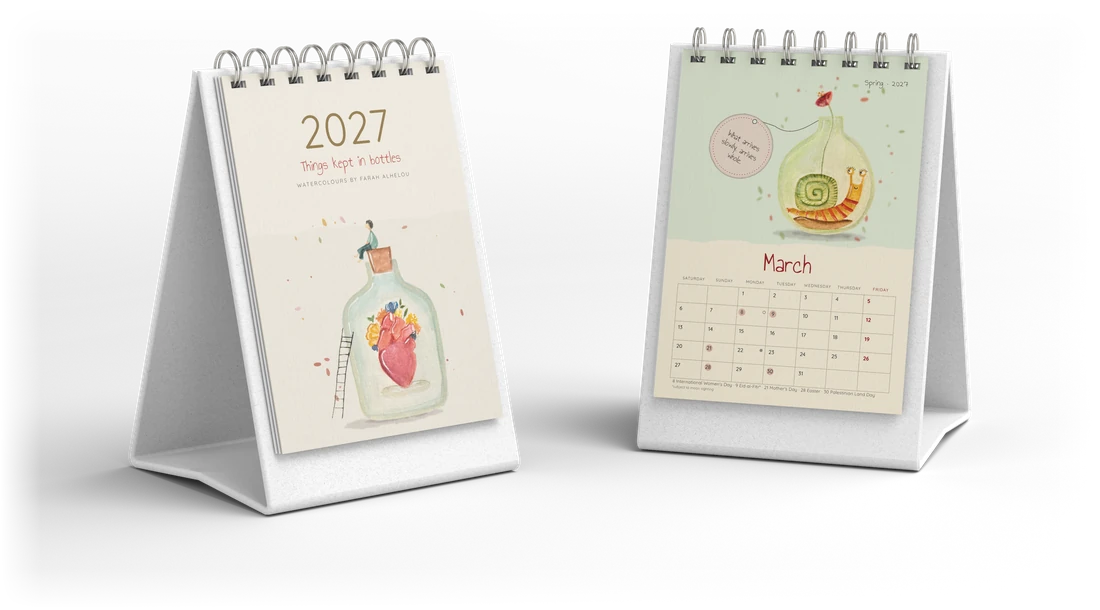
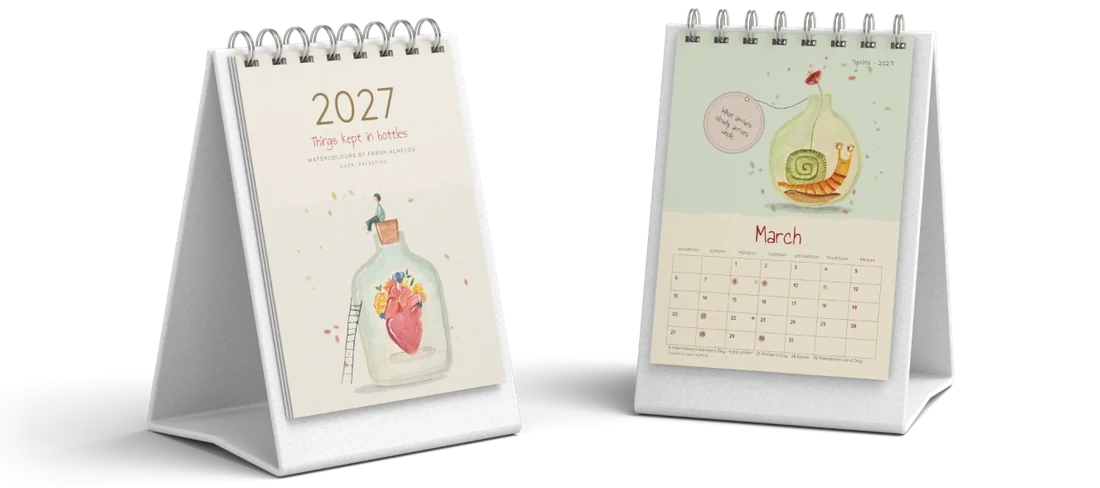
Calendar page: the owner's pair render opens the page again; the page is white
Claude-Session: https://claude.ai/code/session_011WuUMkvb8t9MEEabS5wD9n

Changed region(s): [[0.0, 0.0, 0.8964, 0.9836], [0.2782, 0.1844, 0.3709, 0.3381], [0.68, 0.5533, 0.7109, 0.584]]

diff --git a/web/calendar.html b/web/calendar.html
@@ -19,10 +19,10 @@
 <link rel="preload" href="fonts/geist-mono-latin-500-normal.woff2" as="font" type="font/woff2" crossorigin>
 <link rel="stylesheet" href="fonts/all.css">
 <link rel="stylesheet" href="fonts/figtree.css">
-<link rel="stylesheet" href="assets/css/site.css?v=226dd709">
-<link rel="stylesheet" href="assets/css/hand.css?v=226dd709">
-<link rel="stylesheet" href="assets/css/calendar.css?v=226dd709">
-<script src="assets/js/boot.js?v=226dd709"></script>
+<link rel="stylesheet" href="assets/css/site.css?v=b6108202">
+<link rel="stylesheet" href="assets/css/hand.css?v=b6108202">
+<link rel="stylesheet" href="assets/css/calendar.css?v=b6108202">
+<script src="assets/js/boot.js?v=b6108202"></script>
 </head>
 <body>
 <a class="skip" href="#main" data-ar="انتقلوا إلى المحتوى">Skip to content</a>
@@ -64,7 +64,7 @@
 <main id="main">
 <section class="hshow cdesk" id="top" aria-labelledby="cf-h">
   <h1 class="sr" id="cf-h" data-ar="تقويم 2027: أشياء نحفظها في قوارير">The 2027 calendar: things kept in bottles</h1>
-  <img src="assets/cal-hero.webp" srcset="assets/cal-hero-m.webp 1100w, assets/cal-hero.webp 2400w" sizes="100vw" width="2400" height="1333" alt="Two 2027 desk calendars standing side by side, open on the cover and on March" data-alt-ar="تقويمان مكتبيان لعام 2027 جنبًا إلى جنب، مفتوحان على الغلاف وعلى آذار" fetchpriority="high">
+  <img src="assets/cal-hero.webp" srcset="assets/cal-hero-m.webp 1100w, assets/cal-hero.webp 1326w" sizes="100vw" width="1326" height="589" alt="Two 2027 desk calendars standing side by side, open on the cover and on March" data-alt-ar="تقويمان مكتبيان لعام 2027 جنبًا إلى جنب، مفتوحان على الغلاف وعلى آذار" fetchpriority="high">
   <div class="cdesk-t">
     <p class="cdesk-l" data-ar="قارورة لكل شهر، على مكتبكم طوال العام">A bottle for every month, on your desk all year</p>
     <div class="cbuy-row">
@@ -147,10 +147,10 @@
   <div class="ft-z"><small data-ar="© 2026 ماس آند غراس، غزة، فلسطين">© 2026 Mass &amp; Grass, Gaza, Palestine</small><div class="soc" id="soc"></div></div>
 </footer>
 
-<script src="assets/js/catalog.js?v=226dd709" defer></script>
-<script src="assets/js/art.js?v=226dd709" defer></script>
-<script src="assets/js/core.js?v=226dd709" defer></script>
-<script src="assets/js/mock.js?v=226dd709" defer></script>
-<script src="assets/js/calendar.js?v=226dd709" defer></script>
+<script src="assets/js/catalog.js?v=b6108202" defer></script>
+<script src="assets/js/art.js?v=b6108202" defer></script>
+<script src="assets/js/core.js?v=b6108202" defer></script>
+<script src="assets/js/mock.js?v=b6108202" defer></script>
+<script src="assets/js/calendar.js?v=b6108202" defer></script>
 </body>
 </html>

diff --git a/web/designs.html b/web/designs.html
@@ -19,12 +19,12 @@
 <link rel="preload" href="fonts/geist-mono-latin-500-normal.woff2" as="font" type="font/woff2" crossorigin>
 <link rel="stylesheet" href="fonts/all.css">
 <link rel="stylesheet" href="fonts/figtree.css">
-<link rel="stylesheet" href="assets/css/site.css?v=226dd709">
-<link rel="stylesheet" href="assets/css/hand.css?v=226dd709">
-<link rel="stylesheet" href="assets/css/tiles.css?v=226dd709">
-<link rel="stylesheet" href="assets/css/book.css?v=226dd709">
-<link rel="stylesheet" href="assets/css/designs.css?v=226dd709">
-<script src="assets/js/boot.js?v=226dd709"></script>
+<link rel="stylesheet" href="assets/css/site.css?v=b6108202">
+<link rel="stylesheet" href="assets/css/hand.css?v=b6108202">
+<link rel="stylesheet" href="assets/css/tiles.css?v=b6108202">
+<link rel="stylesheet" href="assets/css/book.css?v=b6108202">
+<link rel="stylesheet" href="assets/css/designs.css?v=b6108202">
+<script src="assets/js/boot.js?v=b6108202"></script>
 </head>
 <body>
 <a class="skip" href="#main" data-ar="انتقلوا إلى المحتوى">Skip to content</a>
@@ -119,11 +119,11 @@
   <div class="ft-z"><small data-ar="© 2026 ماس آند غراس، غزة، فلسطين">© 2026 Mass &amp; Grass, Gaza, Palestine</small><div class="soc" id="soc"></div></div>
 </footer>
 
-<script src="assets/js/catalog.js?v=226dd709" defer></script>
-<script src="assets/js/art.js?v=226dd709" defer></script>
-<script src="assets/js/core.js?v=226dd709" defer></script>
-<script src="assets/js/mock.js?v=226dd709" defer></script>
-<script src="assets/js/book.js?v=226dd709" defer></script>
-<script src="assets/js/designs.js?v=226dd709" defer></script>
+<script src="assets/js/catalog.js?v=b6108202" defer></script>
+<script src="assets/js/art.js?v=b6108202" defer></script>
+<script src="assets/js/core.js?v=b6108202" defer></script>
+<script src="assets/js/mock.js?v=b6108202" defer></script>
+<script src="assets/js/book.js?v=b6108202" defer></script>
+<script src="assets/js/designs.js?v=b6108202" defer></script>
 </body>
 </html>

diff --git a/web/book.html b/web/book.html
@@ -19,11 +19,11 @@
 <link rel="preload" href="fonts/geist-mono-latin-500-normal.woff2" as="font" type="font/woff2" crossorigin>
 <link rel="stylesheet" href="fonts/all.css">
 <link rel="stylesheet" href="fonts/figtree.css">
-<link rel="stylesheet" href="assets/css/site.css?v=226dd709">
-<link rel="stylesheet" href="assets/css/hand.css?v=226dd709">
-<link rel="stylesheet" href="assets/css/book.css?v=226dd709">
-<link rel="stylesheet" href="assets/css/designs.css?v=226dd709">
-<script src="assets/js/boot.js?v=226dd709"></script>
+<link rel="stylesheet" href="assets/css/site.css?v=b6108202">
+<link rel="stylesheet" href="assets/css/hand.css?v=b6108202">
+<link rel="stylesheet" href="assets/css/book.css?v=b6108202">
+<link rel="stylesheet" href="assets/css/designs.css?v=b6108202">
+<script src="assets/js/boot.js?v=b6108202"></script>
 </head>
 <body>
 <a class="skip" href="#main" data-ar="انتقلوا إلى المحتوى">Skip to content</a>
@@ -106,10 +106,10 @@
   <div class="ft-z"><small data-ar="© 2026 ماس آند غراس، غزة، فلسطين">© 2026 Mass &amp; Grass, Gaza, Palestine</small><div class="soc" id="soc"></div></div>
 </footer>
 
-<script src="assets/js/catalog.js?v=226dd709" defer></script>
-<script src="assets/js/art.js?v=226dd709" defer></script>
-<script src="assets/js/core.js?v=226dd709" defer></script>
-<script src="assets/js/mock.js?v=226dd709" defer></script>
-<script src="assets/js/book.js?v=226dd709" defer></script>
+<script src="assets/js/catalog.js?v=b6108202" defer></script>
+<script src="assets/js/art.js?v=b6108202" defer></script>
+<script src="assets/js/core.js?v=b6108202" defer></script>
+<script src="assets/js/mock.js?v=b6108202" defer></script>
+<script src="assets/js/book.js?v=b6108202" defer></script>
 </body>
 </html>

diff --git a/web/shop.html b/web/shop.html
@@ -19,11 +19,11 @@
 <link rel="preload" href="fonts/geist-mono-latin-500-normal.woff2" as="font" type="font/woff2" crossorigin>
 <link rel="stylesheet" href="fonts/all.css">
 <link rel="stylesheet" href="fonts/figtree.css">
-<link rel="stylesheet" href="assets/css/site.css?v=226dd709">
-<link rel="stylesheet" href="assets/css/hand.css?v=226dd709">
-<link rel="stylesheet" href="assets/css/tiles.css?v=226dd709">
-<link rel="stylesheet" href="assets/css/shop.css?v=226dd709">
-<script src="assets/js/boot.js?v=226dd709"></script>
+<link rel="stylesheet" href="assets/css/site.css?v=b6108202">
+<link rel="stylesheet" href="assets/css/hand.css?v=b6108202">
+<link rel="stylesheet" href="assets/css/tiles.css?v=b6108202">
+<link rel="stylesheet" href="assets/css/shop.css?v=b6108202">
+<script src="assets/js/boot.js?v=b6108202"></script>
 </head>
 <body>
 <a class="skip" href="#main" data-ar="انتقلوا إلى المحتوى">Skip to content</a>
@@ -90,10 +90,10 @@
   <div class="ft-z"><small data-ar="© 2026 ماس آند غراس، غزة، فلسطين">© 2026 Mass &amp; Grass, Gaza, Palestine</small><div class="soc" id="soc"></div></div>
 </footer>
 
-<script src="assets/js/catalog.js?v=226dd709" defer></script>
-<script src="assets/js/art.js?v=226dd709" defer></script>
-<script src="assets/js/core.js?v=226dd709" defer></script>
-<script src="assets/js/mock.js?v=226dd709" defer></script>
-<script src="assets/js/shop.js?v=226dd709" defer></script>
+<script src="assets/js/catalog.js?v=b6108202" defer></script>
+<script src="assets/js/art.js?v=b6108202" defer></script>
+<script src="assets/js/core.js?v=b6108202" defer></script>
+<script src="assets/js/mock.js?v=b6108202" defer></script>
+<script src="assets/js/shop.js?v=b6108202" defer></script>
 </body>
 </html>

diff --git a/web/commission.html b/web/commission.html
@@ -19,10 +19,10 @@
 <link rel="preload" href="fonts/geist-mono-latin-500-normal.woff2" as="font" type="font/woff2" crossorigin>
 <link rel="stylesheet" href="fonts/all.css">
 <link rel="stylesheet" href="fonts/figtree.css">
-<link rel="stylesheet" href="assets/css/site.css?v=226dd709">
-<link rel="stylesheet" href="assets/css/hand.css?v=226dd709">
-<link rel="stylesheet" href="assets/css/commission.css?v=226dd709">
-<script src="assets/js/boot.js?v=226dd709"></script>
+<link rel="stylesheet" href="assets/css/site.css?v=b6108202">
+<link rel="stylesheet" href="assets/css/hand.css?v=b6108202">
+<link rel="stylesheet" href="assets/css/commission.css?v=b6108202">
+<script src="assets/js/boot.js?v=b6108202"></script>
 </head>
 <body>
 <a class="skip" href="#main" data-ar="انتقلوا إلى المحتوى">Skip to content</a>
@@ -126,10 +126,10 @@
   <div class="ft-z"><small data-ar="© 2026 ماس آند غراس، غزة، فلسطين">© 2026 Mass &amp; Grass, Gaza, Palestine</small><div class="soc" id="soc"></div></div>
 </footer>
 
-<script src="assets/js/catalog.js?v=226dd709" defer></script>
-<script src="assets/js/art.js?v=226dd709" defer></script>
-<script src="assets/js/core.js?v=226dd709" defer></script>
-<script src="assets/js/mock.js?v=226dd709" defer></script>
-<script src="assets/js/commission.js?v=226dd709" defer></script>
+<script src="assets/js/catalog.js?v=b6108202" defer></script>
+<script src="assets/js/art.js?v=b6108202" defer></script>
+<script src="assets/js/core.js?v=b6108202" defer></script>
+<script src="assets/js/mock.js?v=b6108202" defer></script>
+<script src="assets/js/commission.js?v=b6108202" defer></script>
 </body>
 </html>

diff --git a/web/paintings.html b/web/paintings.html
@@ -19,10 +19,10 @@
 <link rel="preload" href="fonts/geist-mono-latin-500-normal.woff2" as="font" type="font/woff2" crossorigin>
 <link rel="stylesheet" href="fonts/all.css">
 <link rel="stylesheet" href="fonts/figtree.css">
-<link rel="stylesheet" href="assets/css/site.css?v=226dd709">
-<link rel="stylesheet" href="assets/css/hand.css?v=226dd709">
-<link rel="stylesheet" href="assets/css/paintings.css?v=226dd709">
-<script src="assets/js/boot.js?v=226dd709"></script>
+<link rel="stylesheet" href="assets/css/site.css?v=b6108202">
+<link rel="stylesheet" href="assets/css/hand.css?v=b6108202">
+<link rel="stylesheet" href="assets/css/paintings.css?v=b6108202">
+<script src="assets/js/boot.js?v=b6108202"></script>
 </head>
 <body>
 <a class="skip" href="#main" data-ar="انتقلوا إلى المحتوى">Skip to content</a>
@@ -111,10 +111,10 @@
   <div class="ft-z"><small data-ar="© 2026 ماس آند غراس، غزة، فلسطين">© 2026 Mass &amp; Grass, Gaza, Palestine</small><div class="soc" id="soc"></div></div>
 </footer>
 
-<script src="assets/js/catalog.js?v=226dd709" defer></script>
-<script src="assets/js/art.js?v=226dd709" defer></script>
-<script src="assets/js/core.js?v=226dd709" defer></script>
-<script src="assets/js/mock.js?v=226dd709" defer></script>
-<script src="assets/js/paintings.js?v=226dd709" defer></script>
+<script src="assets/js/catalog.js?v=b6108202" defer></script>
+<script src="assets/js/art.js?v=b6108202" defer></script>
+<script src="assets/js/core.js?v=b6108202" defer></script>
+<script src="assets/js/mock.js?v=b6108202" defer></script>
+<script src="assets/js/paintings.js?v=b6108202" defer></script>
 </body>
 </html>

diff --git a/web/postcards.html b/web/postcards.html
@@ -19,10 +19,10 @@
 <link rel="preload" href="fonts/geist-mono-latin-500-normal.woff2" as="font" type="font/woff2" crossorigin>
 <link rel="stylesheet" href="fonts/all.css">
 <link rel="stylesheet" href="fonts/figtree.css">
-<link rel="stylesheet" href="assets/css/site.css?v=226dd709">
-<link rel="stylesheet" href="assets/css/hand.css?v=226dd709">
-<link rel="stylesheet" href="assets/css/postcards.css?v=226dd709">
-<script src="assets/js/boot.js?v=226dd709"></script>
+<link rel="stylesheet" href="assets/css/site.css?v=b6108202">
+<link rel="stylesheet" href="assets/css/hand.css?v=b6108202">
+<link rel="stylesheet" href="assets/css/postcards.css?v=b6108202">
+<script src="assets/js/boot.js?v=b6108202"></script>
 </head>
 <body>
 <a class="skip" href="#main" data-ar="انتقلوا إلى المحتوى">Skip to content</a>
@@ -162,10 +162,10 @@
   <div class="ft-z"><small data-ar="© 2026 ماس آند غراس، غزة، فلسطين">© 2026 Mass &amp; Grass, Gaza, Palestine</small><div class="soc" id="soc"></div></div>
 </footer>
 
-<script src="assets/js/catalog.js?v=226dd709" defer></script>
-<script src="assets/js/art.js?v=226dd709" defer></script>
-<script src="assets/js/core.js?v=226dd709" defer></script>
-<script src="assets/js/mock.js?v=226dd709" defer></script>
-<script src="assets/js/postcards.js?v=226dd709" defer></script>
+<script src="assets/js/catalog.js?v=b6108202" defer></script>
+<script src="assets/js/art.js?v=b6108202" defer></script>
+<script src="assets/js/core.js?v=b6108202" defer></script>
+<script src="assets/js/mock.js?v=b6108202" defer></script>
+<script src="assets/js/postcards.js?v=b6108202" defer></script>
 </body>
 </html>

diff --git a/web/palestine.html b/web/palestine.html
@@ -19,10 +19,10 @@
 <link rel="preload" href="fonts/geist-mono-latin-500-normal.woff2" as="font" type="font/woff2" crossorigin>
 <link rel="stylesheet" href="fonts/all.css">
 <link rel="stylesheet" href="fonts/figtree.css">
-<link rel="stylesheet" href="assets/css/site.css?v=226dd709">
-<link rel="stylesheet" href="assets/css/hand.css?v=226dd709">
-<link rel="stylesheet" href="assets/css/calendar.css?v=226dd709">
-<script src="assets/js/boot.js?v=226dd709"></script>
+<link rel="stylesheet" href="assets/css/site.css?v=b6108202">
+<link rel="stylesheet" href="assets/css/hand.css?v=b6108202">
+<link rel="stylesheet" href="assets/css/calendar.css?v=b6108202">
+<script src="assets/js/boot.js?v=b6108202"></script>
 </head>
 <body>
 <a class="skip" href="#main" data-ar="انتقلوا إلى المحتوى">Skip to content</a>
@@ -128,10 +128,10 @@
   <div class="ft-z"><small data-ar="© 2026 ماس آند غراس، غزة، فلسطين">© 2026 Mass &amp; Grass, Gaza, Palestine</small><div class="soc" id="soc"></div></div>
 </footer>
 
-<script src="assets/js/catalog.js?v=226dd709" defer></script>
-<script src="assets/js/art.js?v=226dd709" defer></script>
-<script src="assets/js/core.js?v=226dd709" defer></script>
-<script src="assets/js/mock.js?v=226dd709" defer></script>
-<script src="assets/js/palestine.js?v=226dd709" defer></script>
+<script src="assets/js/catalog.js?v=b6108202" defer></script>
+<script src="assets/js/art.js?v=b6108202" defer></script>
+<script src="assets/js/core.js?v=b6108202" defer></script>
+<script src="assets/js/mock.js?v=b6108202" defer></script>
+<script src="assets/js/palestine.js?v=b6108202" defer></script>
 </body>
 </html>

diff --git a/web/stickers.html b/web/stickers.html
@@ -19,10 +19,10 @@
 <link rel="preload" href="fonts/geist-mono-latin-500-normal.woff2" as="font" type="font/woff2" crossorigin>
 <link rel="stylesheet" href="fonts/all.css">
 <link rel="stylesheet" href="fonts/figtree.css">
-<link rel="stylesheet" href="assets/css/site.css?v=226dd709">
-<link rel="stylesheet" href="assets/css/hand.css?v=226dd709">
-<link rel="stylesheet" href="assets/css/stickers.css?v=226dd709">
-<script src="assets/js/boot.js?v=226dd709"></script>
+<link rel="stylesheet" href="assets/css/site.css?v=b6108202">
+<link rel="stylesheet" href="assets/css/hand.css?v=b6108202">
+<link rel="stylesheet" href="assets/css/stickers.css?v=b6108202">
+<script src="assets/js/boot.js?v=b6108202"></script>
 </head>
 <body>
 <a class="skip" href="#main" data-ar="انتقلوا إلى المحتوى">Skip to content</a>
@@ -115,10 +115,10 @@
   <div class="ft-z"><small data-ar="© 2026 ماس آند غراس، غزة، فلسطين">© 2026 Mass &amp; Grass, Gaza, Palestine</small><div class="soc" id="soc"></div></div>
 </footer>
 
-<script src="assets/js/catalog.js?v=226dd709" defer></script>
-<script src="assets/js/art.js?v=226dd709" defer></script>
-<script src="assets/js/core.js?v=226dd709" defer></script>
-<script src="assets/js/mock.js?v=226dd709" defer></script>
-<script src="assets/js/stickers.js?v=226dd709" defer></script>
+<script src="assets/js/catalog.js?v=b6108202" defer></script>
+<script src="assets/js/art.js?v=b6108202" defer></script>
+<script src="assets/js/core.js?v=b6108202" defer></script>
+<script src="assets/js/mock.js?v=b6108202" defer></script>
+<script src="assets/js/stickers.js?v=b6108202" defer></script>
 </body>
 </html>

diff --git a/web/checkout.html b/web/checkout.html
@@ -20,10 +20,10 @@
 <link rel="preload" href="fonts/geist-mono-latin-500-normal.woff2" as="font" type="font/woff2" crossorigin>
 <link rel="stylesheet" href="fonts/all.css">
 <link rel="stylesheet" href="fonts/figtree.css">
-<link rel="stylesheet" href="assets/css/site.css?v=226dd709">
-<link rel="stylesheet" href="assets/css/hand.css?v=226dd709">
-<link rel="stylesheet" href="assets/css/checkout.css?v=226dd709">
-<script src="assets/js/boot.js?v=226dd709"></script>
+<link rel="stylesheet" href="assets/css/site.css?v=b6108202">
+<link rel="stylesheet" href="assets/css/hand.css?v=b6108202">
+<link rel="stylesheet" href="assets/css/checkout.css?v=b6108202">
+<script src="assets/js/boot.js?v=b6108202"></script>
 </head>
 <body>
 <a class="skip" href="#main" data-ar="انتقلوا إلى المحتوى">Skip to content</a>
@@ -89,10 +89,10 @@
   <div class="ft-z"><small data-ar="© 2026 ماس آند غراس، غزة، فلسطين">© 2026 Mass &amp; Grass, Gaza, Palestine</small><div class="soc" id="soc"></div></div>
 </footer>
 
-<script src="assets/js/catalog.js?v=226dd709" defer></script>
-<script src="assets/js/art.js?v=226dd709" defer></script>
-<script src="assets/js/core.js?v=226dd709" defer></script>
-<script src="assets/js/mock.js?v=226dd709" defer></script>
-<script src="assets/js/checkout.js?v=226dd709" defer></script>
+<script src="assets/js/catalog.js?v=b6108202" defer></script>
+<script src="assets/js/art.js?v=b6108202" defer></script>
+<script src="assets/js/core.js?v=b6108202" defer></script>
+<script src="assets/js/mock.js?v=b6108202" defer></script>
+<script src="assets/js/checkout.js?v=b6108202" defer></script>
 </body>
 </html>

diff --git a/web/account.html b/web/account.html
@@ -20,10 +20,10 @@
 <link rel="preload" href="fonts/geist-mono-latin-500-normal.woff2" as="font" type="font/woff2" crossorigin>
 <link rel="stylesheet" href="fonts/all.css">
 <link rel="stylesheet" href="fonts/figtree.css">
-<link rel="stylesheet" href="assets/css/site.css?v=226dd709">
-<link rel="stylesheet" href="assets/css/hand.css?v=226dd709">
-<link rel="stylesheet" href="assets/css/account.css?v=226dd709">
-<script src="assets/js/boot.js?v=226dd709"></script>
+<link rel="stylesheet" href="assets/css/site.css?v=b6108202">
+<link rel="stylesheet" href="assets/css/hand.css?v=b6108202">
+<link rel="stylesheet" href="assets/css/account.css?v=b6108202">
+<script src="assets/js/boot.js?v=b6108202"></script>
 </head>
 <body>
 <a class="skip" href="#main" data-ar="انتقلوا إلى المحتوى">Skip to content</a>
@@ -94,10 +94,10 @@
   <div class="ft-z"><small data-ar="© 2026 ماس آند غراس، غزة، فلسطين">© 2026 Mass &amp; Grass, Gaza, Palestine</small><div class="soc" id="soc"></div></div>
 </footer>
 
-<script src="assets/js/catalog.js?v=226dd709" defer></script>
-<script src="assets/js/art.js?v=226dd709" defer></script>
-<script src="assets/js/core.js?v=226dd709" defer></script>
-<script src="assets/js/mock.js?v=226dd709" defer></script>
-<script src="assets/js/account.js?v=226dd709" defer></script>
+<script src="assets/js/catalog.js?v=b6108202" defer></script>
+<script src="assets/js/art.js?v=b6108202" defer></script>
+<script src="assets/js/core.js?v=b6108202" defer></script>
+<script src="assets/js/mock.js?v=b6108202" defer></script>
+<script src="assets/js/account.js?v=b6108202" defer></script>
 </body>
 </html>

diff --git a/web/profile.html b/web/profile.html
@@ -20,10 +20,10 @@
 <link rel="preload" href="fonts/geist-mono-latin-500-normal.woff2" as="font" type="font/woff2" crossorigin>
 <link rel="stylesheet" href="fonts/all.css">
 <link rel="stylesheet" href="fonts/figtree.css">
-<link rel="stylesheet" href="assets/css/site.css?v=226dd709">
-<link rel="stylesheet" href="assets/css/hand.css?v=226dd709">
-<link rel="stylesheet" href="assets/css/profile.css?v=226dd709">
-<script src="assets/js/boot.js?v=226dd709"></script>
+<link rel="stylesheet" href="assets/css/site.css?v=b6108202">
+<link rel="stylesheet" href="assets/css/hand.css?v=b6108202">
+<link rel="stylesheet" href="assets/css/profile.css?v=b6108202">
+<script src="assets/js/boot.js?v=b6108202"></script>
 </head>
 <body>
 <a class="skip" href="#main" data-ar="انتقلوا إلى المحتوى">Skip to content</a>
@@ -96,10 +96,10 @@
   <div class="ft-z"><small data-ar="© 2026 ماس آند غراس، غزة، فلسطين">© 2026 Mass &amp; Grass, Gaza, Palestine</small><div class="soc" id="soc"></div></div>
 </footer>
 
-<script src="assets/js/catalog.js?v=226dd709" defer></script>
-<script src="assets/js/art.js?v=226dd709" defer></script>
-<script src="assets/js/core.js?v=226dd709" defer></script>
-<script src="assets/js/mock.js?v=226dd709" defer></script>
-<script src="assets/js/profile.js?v=226dd709" defer></script>
+<script src="assets/js/catalog.js?v=b6108202" defer></script>
+<script src="assets/js/art.js?v=b6108202" defer></script>
+<script src="assets/js/core.js?v=b6108202" defer></script>
+<script src="assets/js/mock.js?v=b6108202" defer></script>
+<script src="assets/js/profile.js?v=b6108202" defer></script>
 </body>
 </html>
